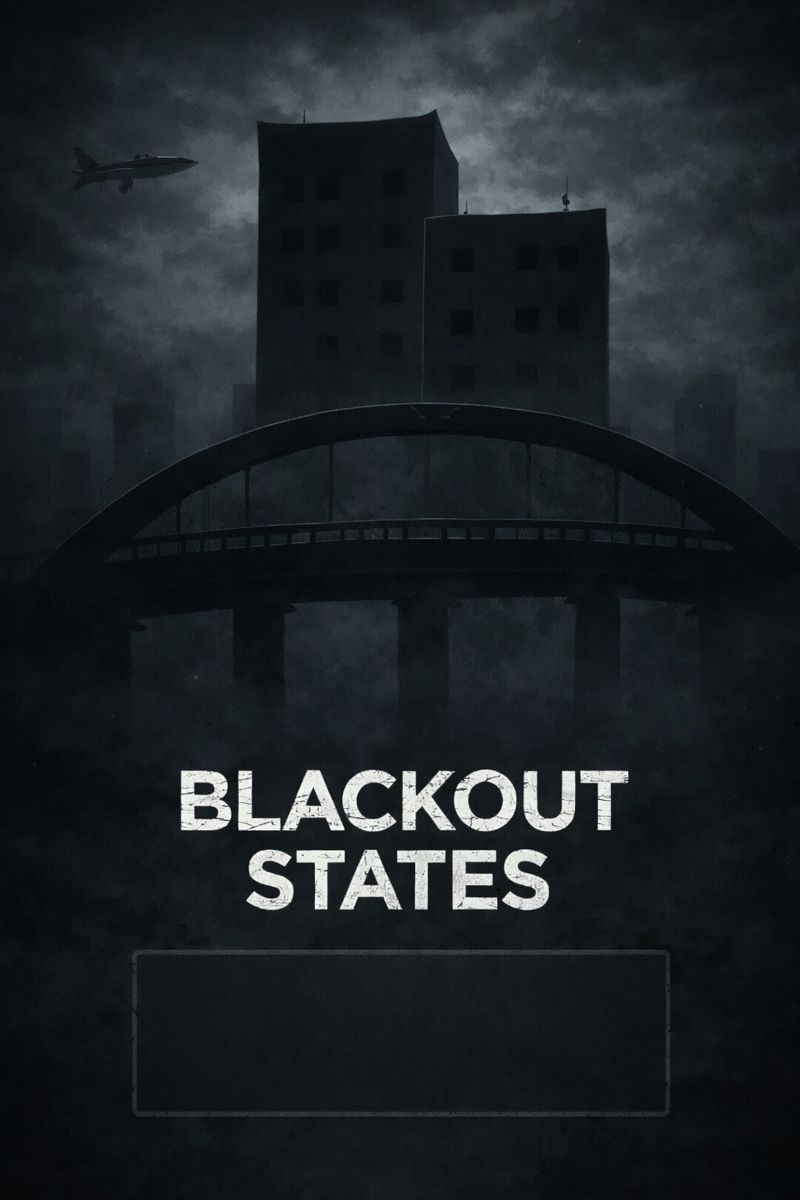
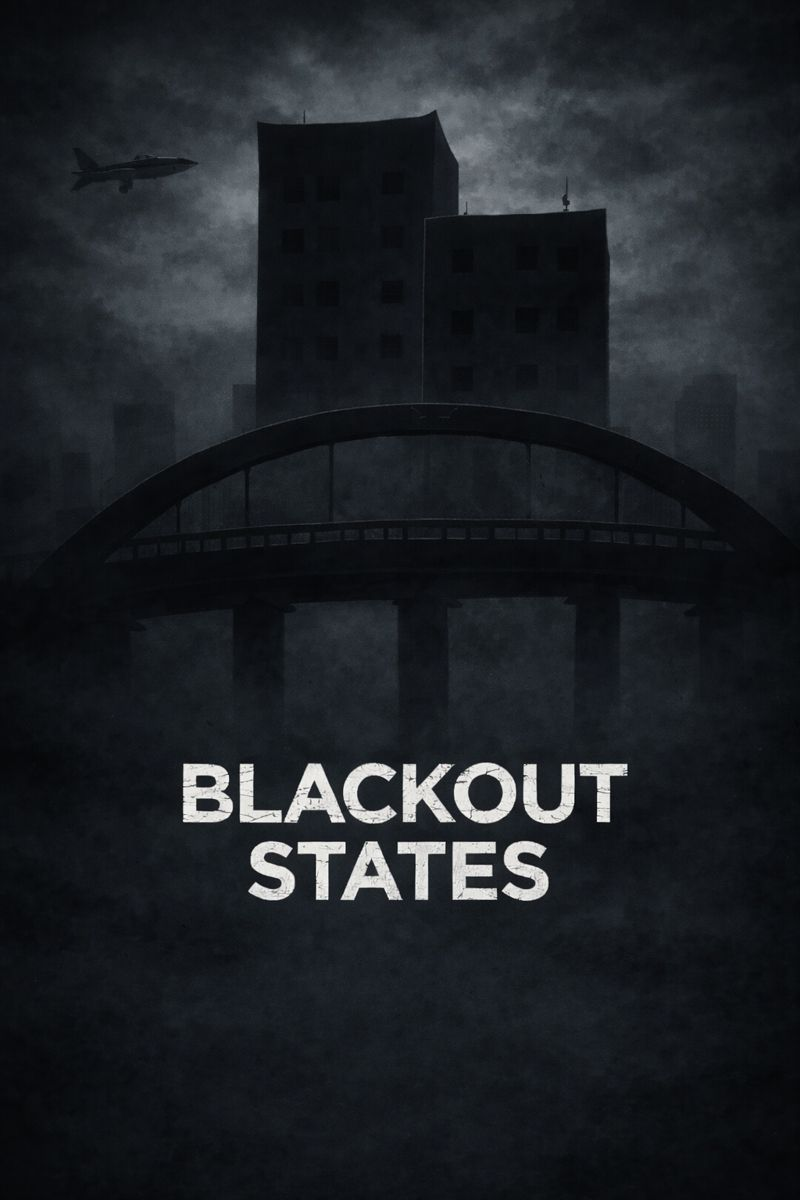
another update

Changed region(s): [[0.1875, 0.6167, 0.7812, 0.8017], [0.5312, 0.7708, 0.5625, 0.8017]]

diff --git a/index.html b/index.html
@@ -110,7 +110,7 @@
       line-height: 1.4;
     }
 
-    /* ===== BOOK 1 COVER (FILLS BOX) ===== */
+    /* ===== BOOK 1 (NORMAL) ===== */
     .book-cover {
       width: 100%;
       height: 260px;
@@ -122,30 +122,15 @@
       display: block;
     }
 
-    /* ===== BOOK 2 COVER (FITS BOX + LOOKS CLEAN) ===== */
-    .book-cover-frame {
+    /* ===== BOOK 2 (STRETCHED — FILLS BOX) ===== */
+    .book-cover-stretch {
       width: 100%;
       height: 260px;
       border-radius: 12px;
       border: 1px solid #1f5a46;
       margin-bottom: 14px;
-      background: #0e3b2e;
 
-      display: flex;
-      align-items: center;
-      justify-content: center;
-
-      /* keeps it looking "put together" */
-      overflow: hidden;
-      padding: 18px; /* gives zoom-out while still filling nicely */
-    }
-
-    .book-cover-fit {
-      width: 100%;
-      height: 100%;
-      border-radius: 10px; /* matches inner padding look */
-      object-fit: contain; /* FULL IMAGE VISIBLE */
-      object-position: center;
+      object-fit: fill;   /* <<< THIS IS THE FIX */
       display: block;
     }
   </style>
@@ -172,11 +157,9 @@
       <p>Those who fail to control their core become liabilities, not legends.</p>
     </div>
 
-    <!-- BOOK 2 (FIXED) -->
+    <!-- BOOK 2 (STRETCHED TO FIT BOX) -->
     <div class="card">
-      <div class="book-cover-frame">
-        <img src="images/blackout1.png" alt="Blackout States Cover" class="book-cover-fit">
-      </div>
+      <img src="images/blackout1.png" alt="Blackout States Cover" class="book-cover-stretch">
       <h3>Blackout States</h3>
       <p>Placeholder for your second illustrated story.</p>
     </div>
